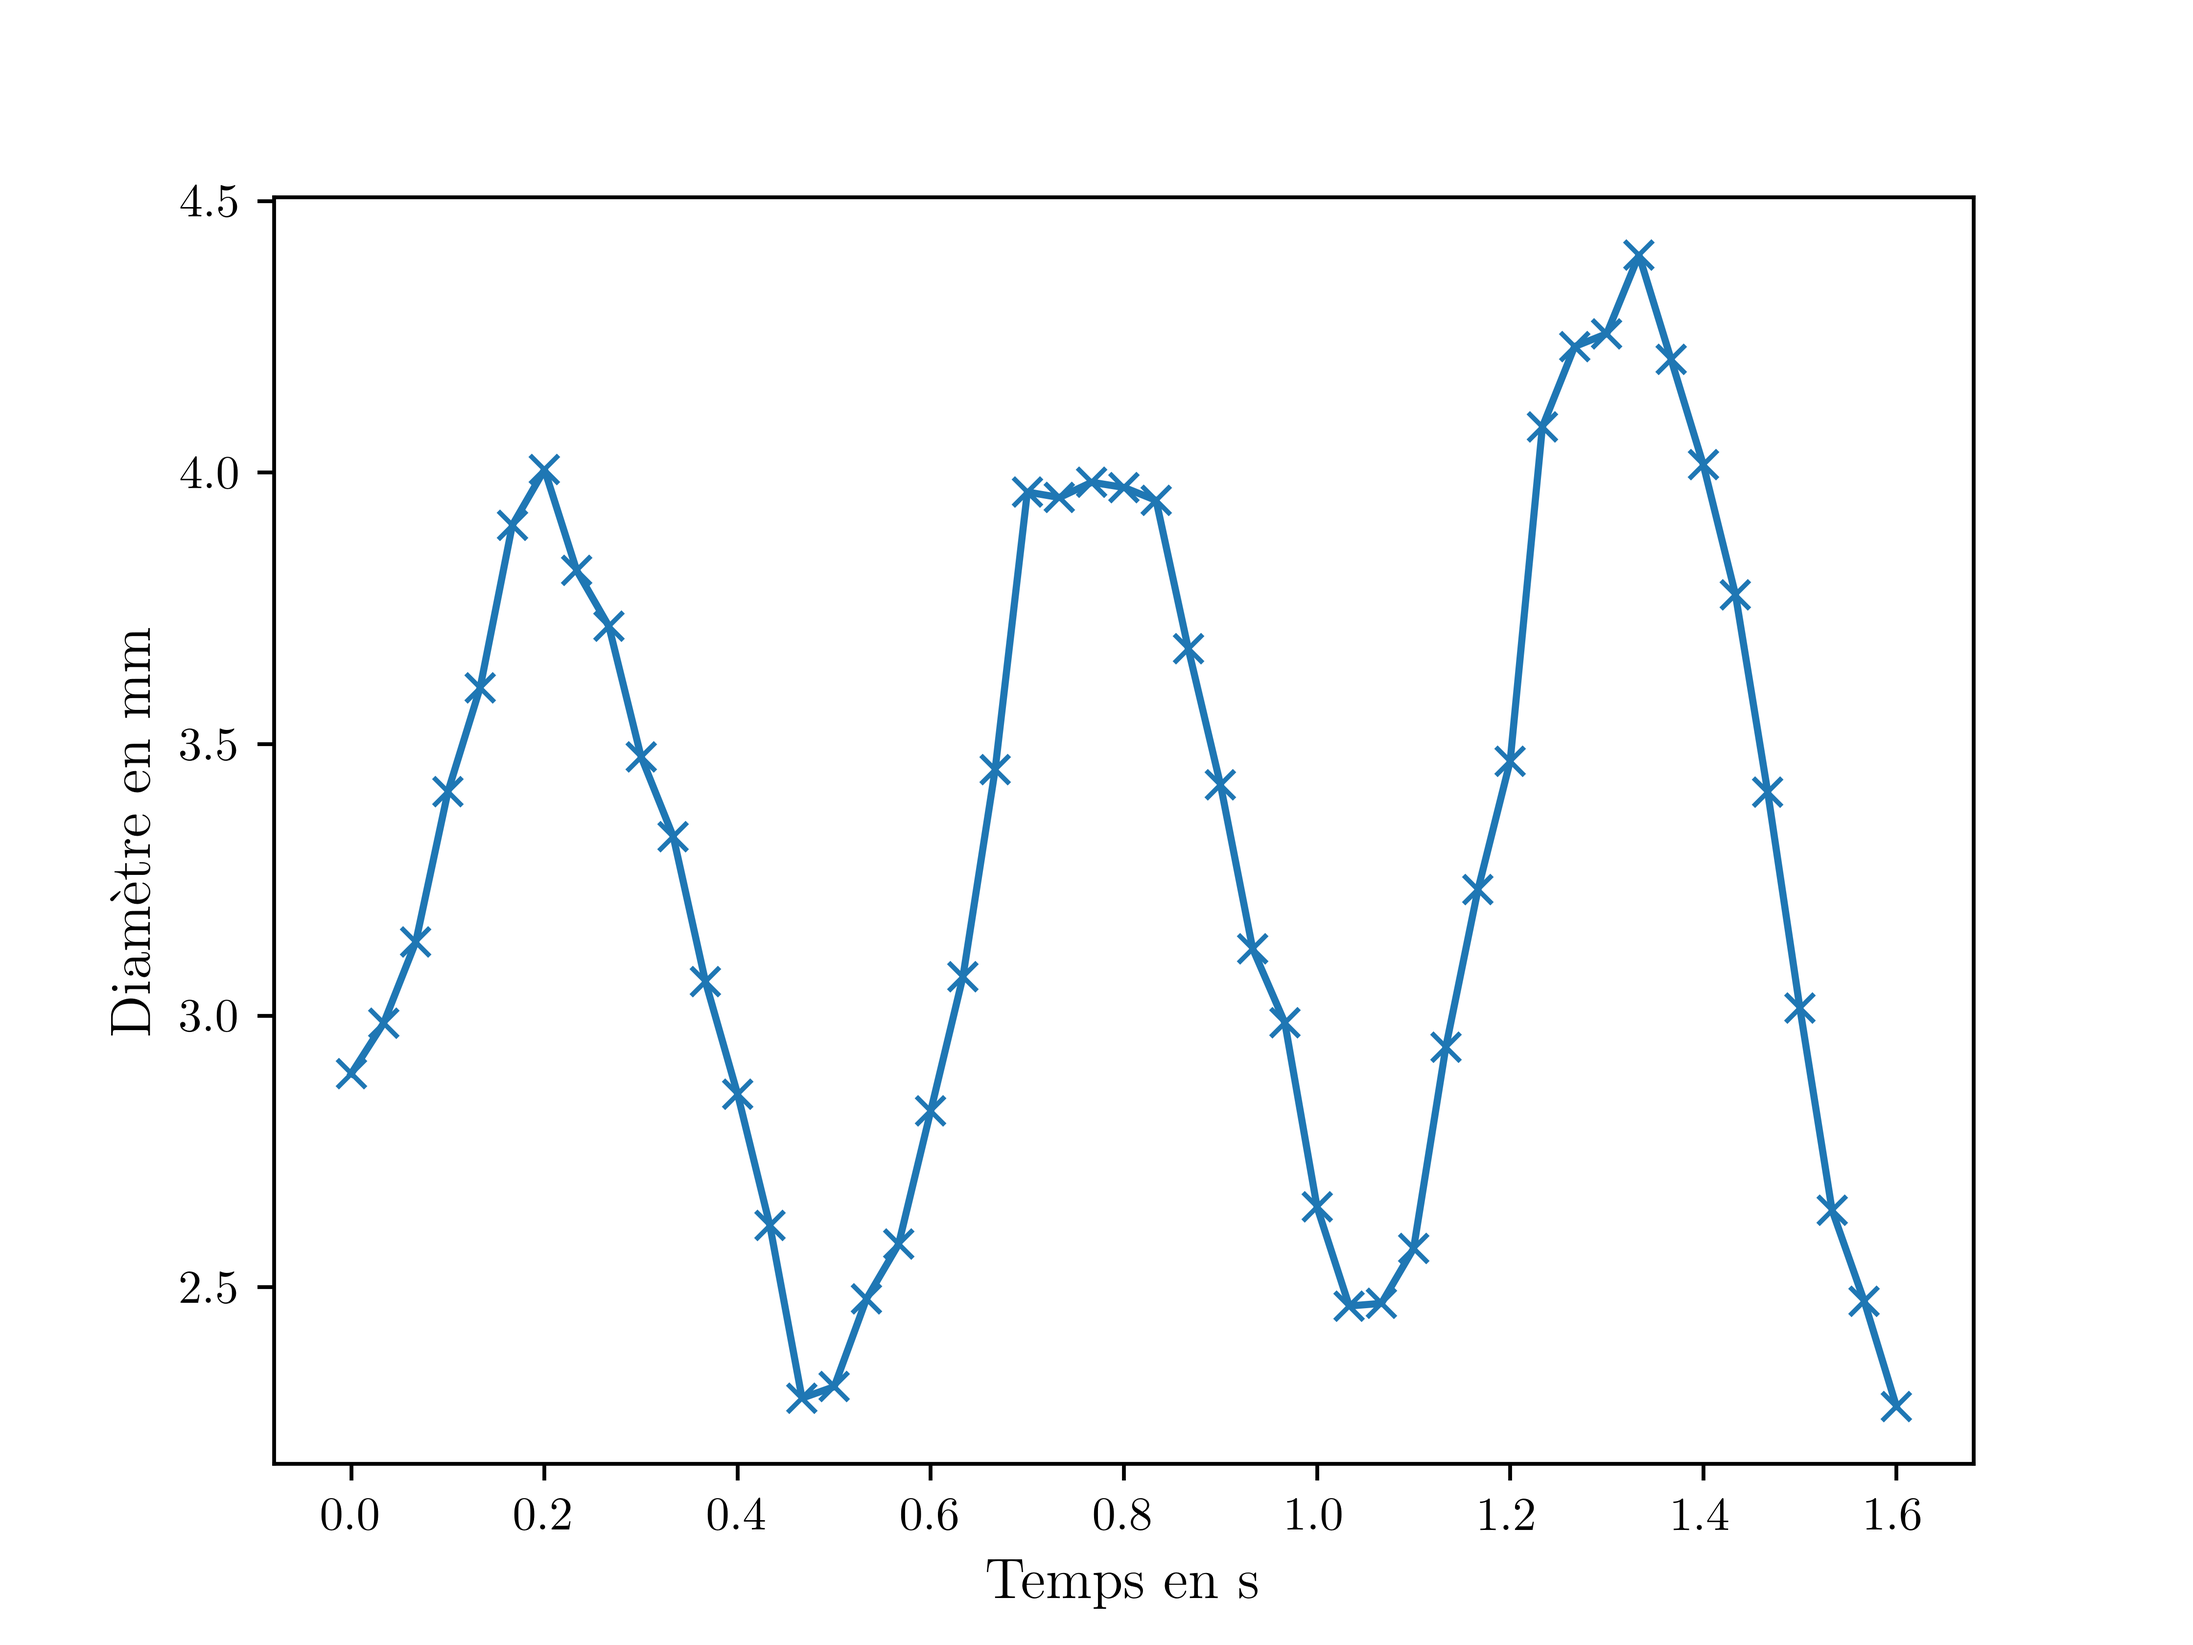
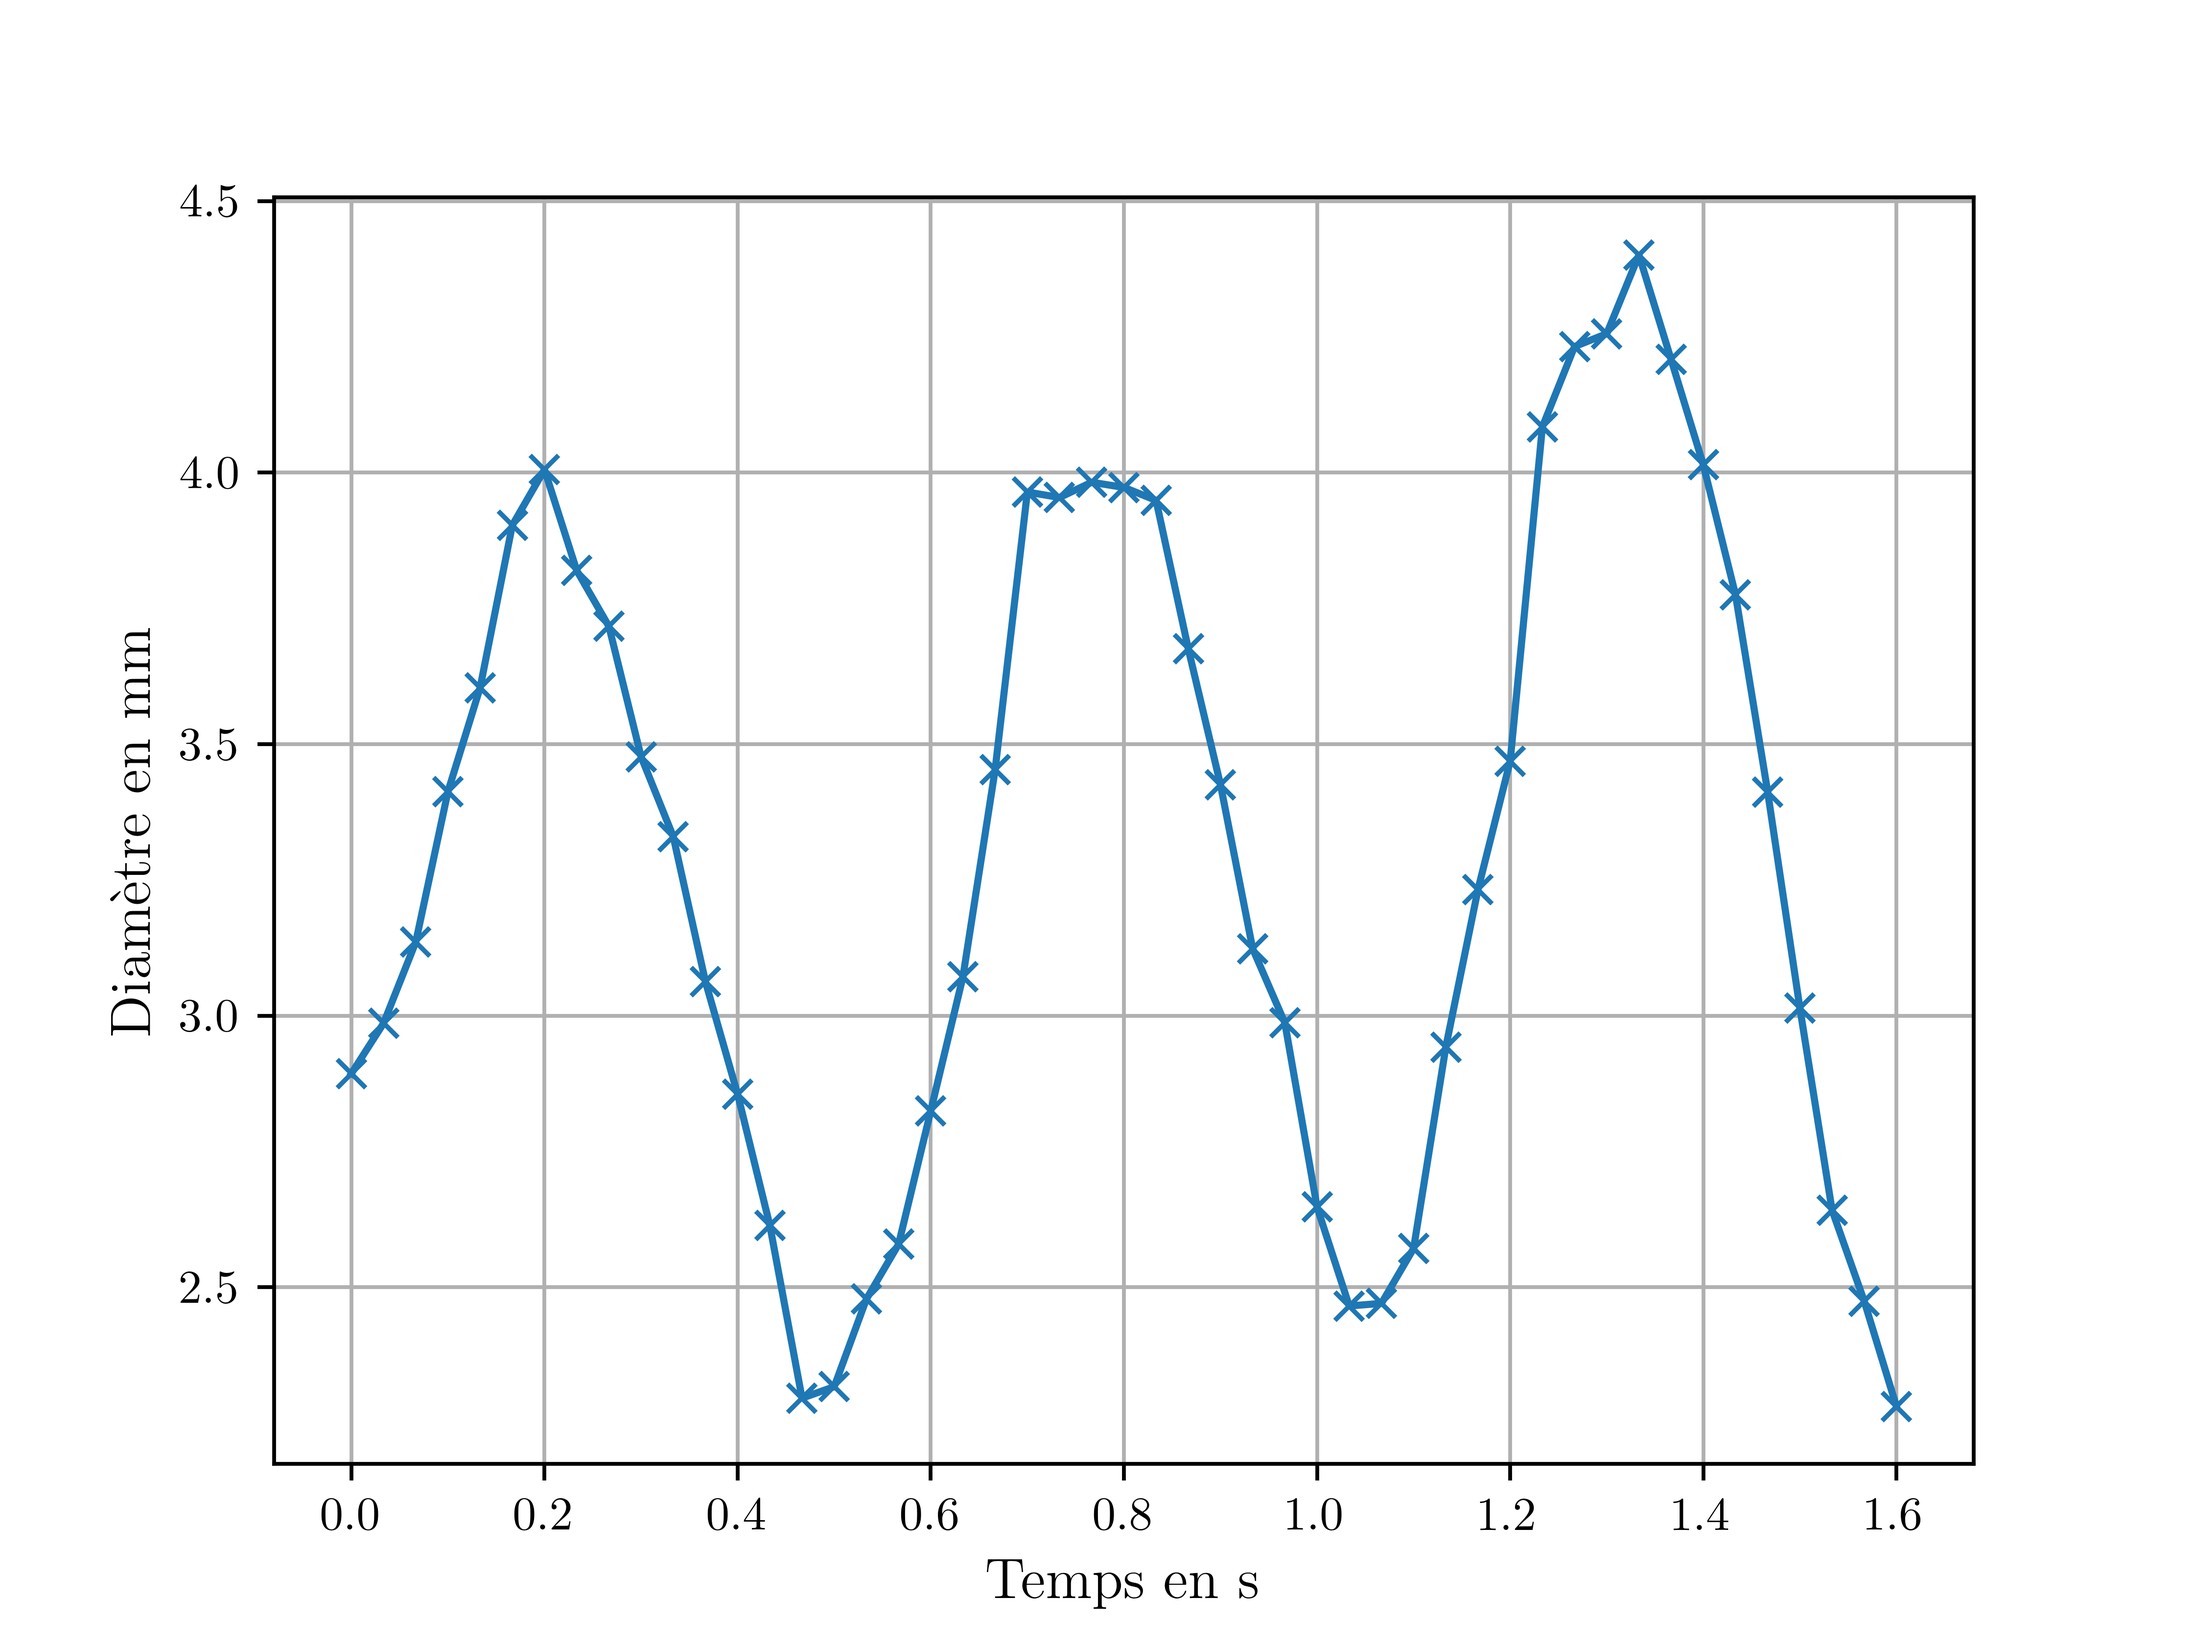
lun. 8 avril 12:27

diff --git a/Data/graphs/Traj.py b/Data/graphs/Traj.py
@@ -67,7 +67,7 @@ plot(T,R,'-x');
 
 set_xlabel(r'Temps en s', fontsize=12);
 set_ylabel(r'Diamètre en mm', fontsize=12);
-
+grid(True);
 plt.savefig('Distraj1.png', dpi=700);
 
 show();
@@ -95,7 +95,7 @@ X = X1-X2;
 Y = Y1-Y2;
 R = np.sqrt(X*X+Y*Y);
 T -= T[0]; 
-
+grid(True);
 plot(T,R,'-x');
 
 set_xlabel(r'Temps en s', fontsize=12);
@@ -121,7 +121,7 @@ plot(T[i:f]-T[i],R[i:f],'-x');
 
 set_xlabel(r'Temps en s', fontsize=12);
 set_ylabel(r'Diamètre en mm', fontsize=12);
-
+grid(True);
 plt.savefig('Distrot.png', dpi=700);
 show();
 
@@ -141,6 +141,6 @@ plot(T[i:f]-T[i],R[i:f],'-x');
 
 set_xlabel(r'Temps en s', fontsize=12);
 set_ylabel(r'Diamètre en mm', fontsize=12);
-
+grid(True);
 plt.savefig('Distraj.png', dpi=700);
 show();
